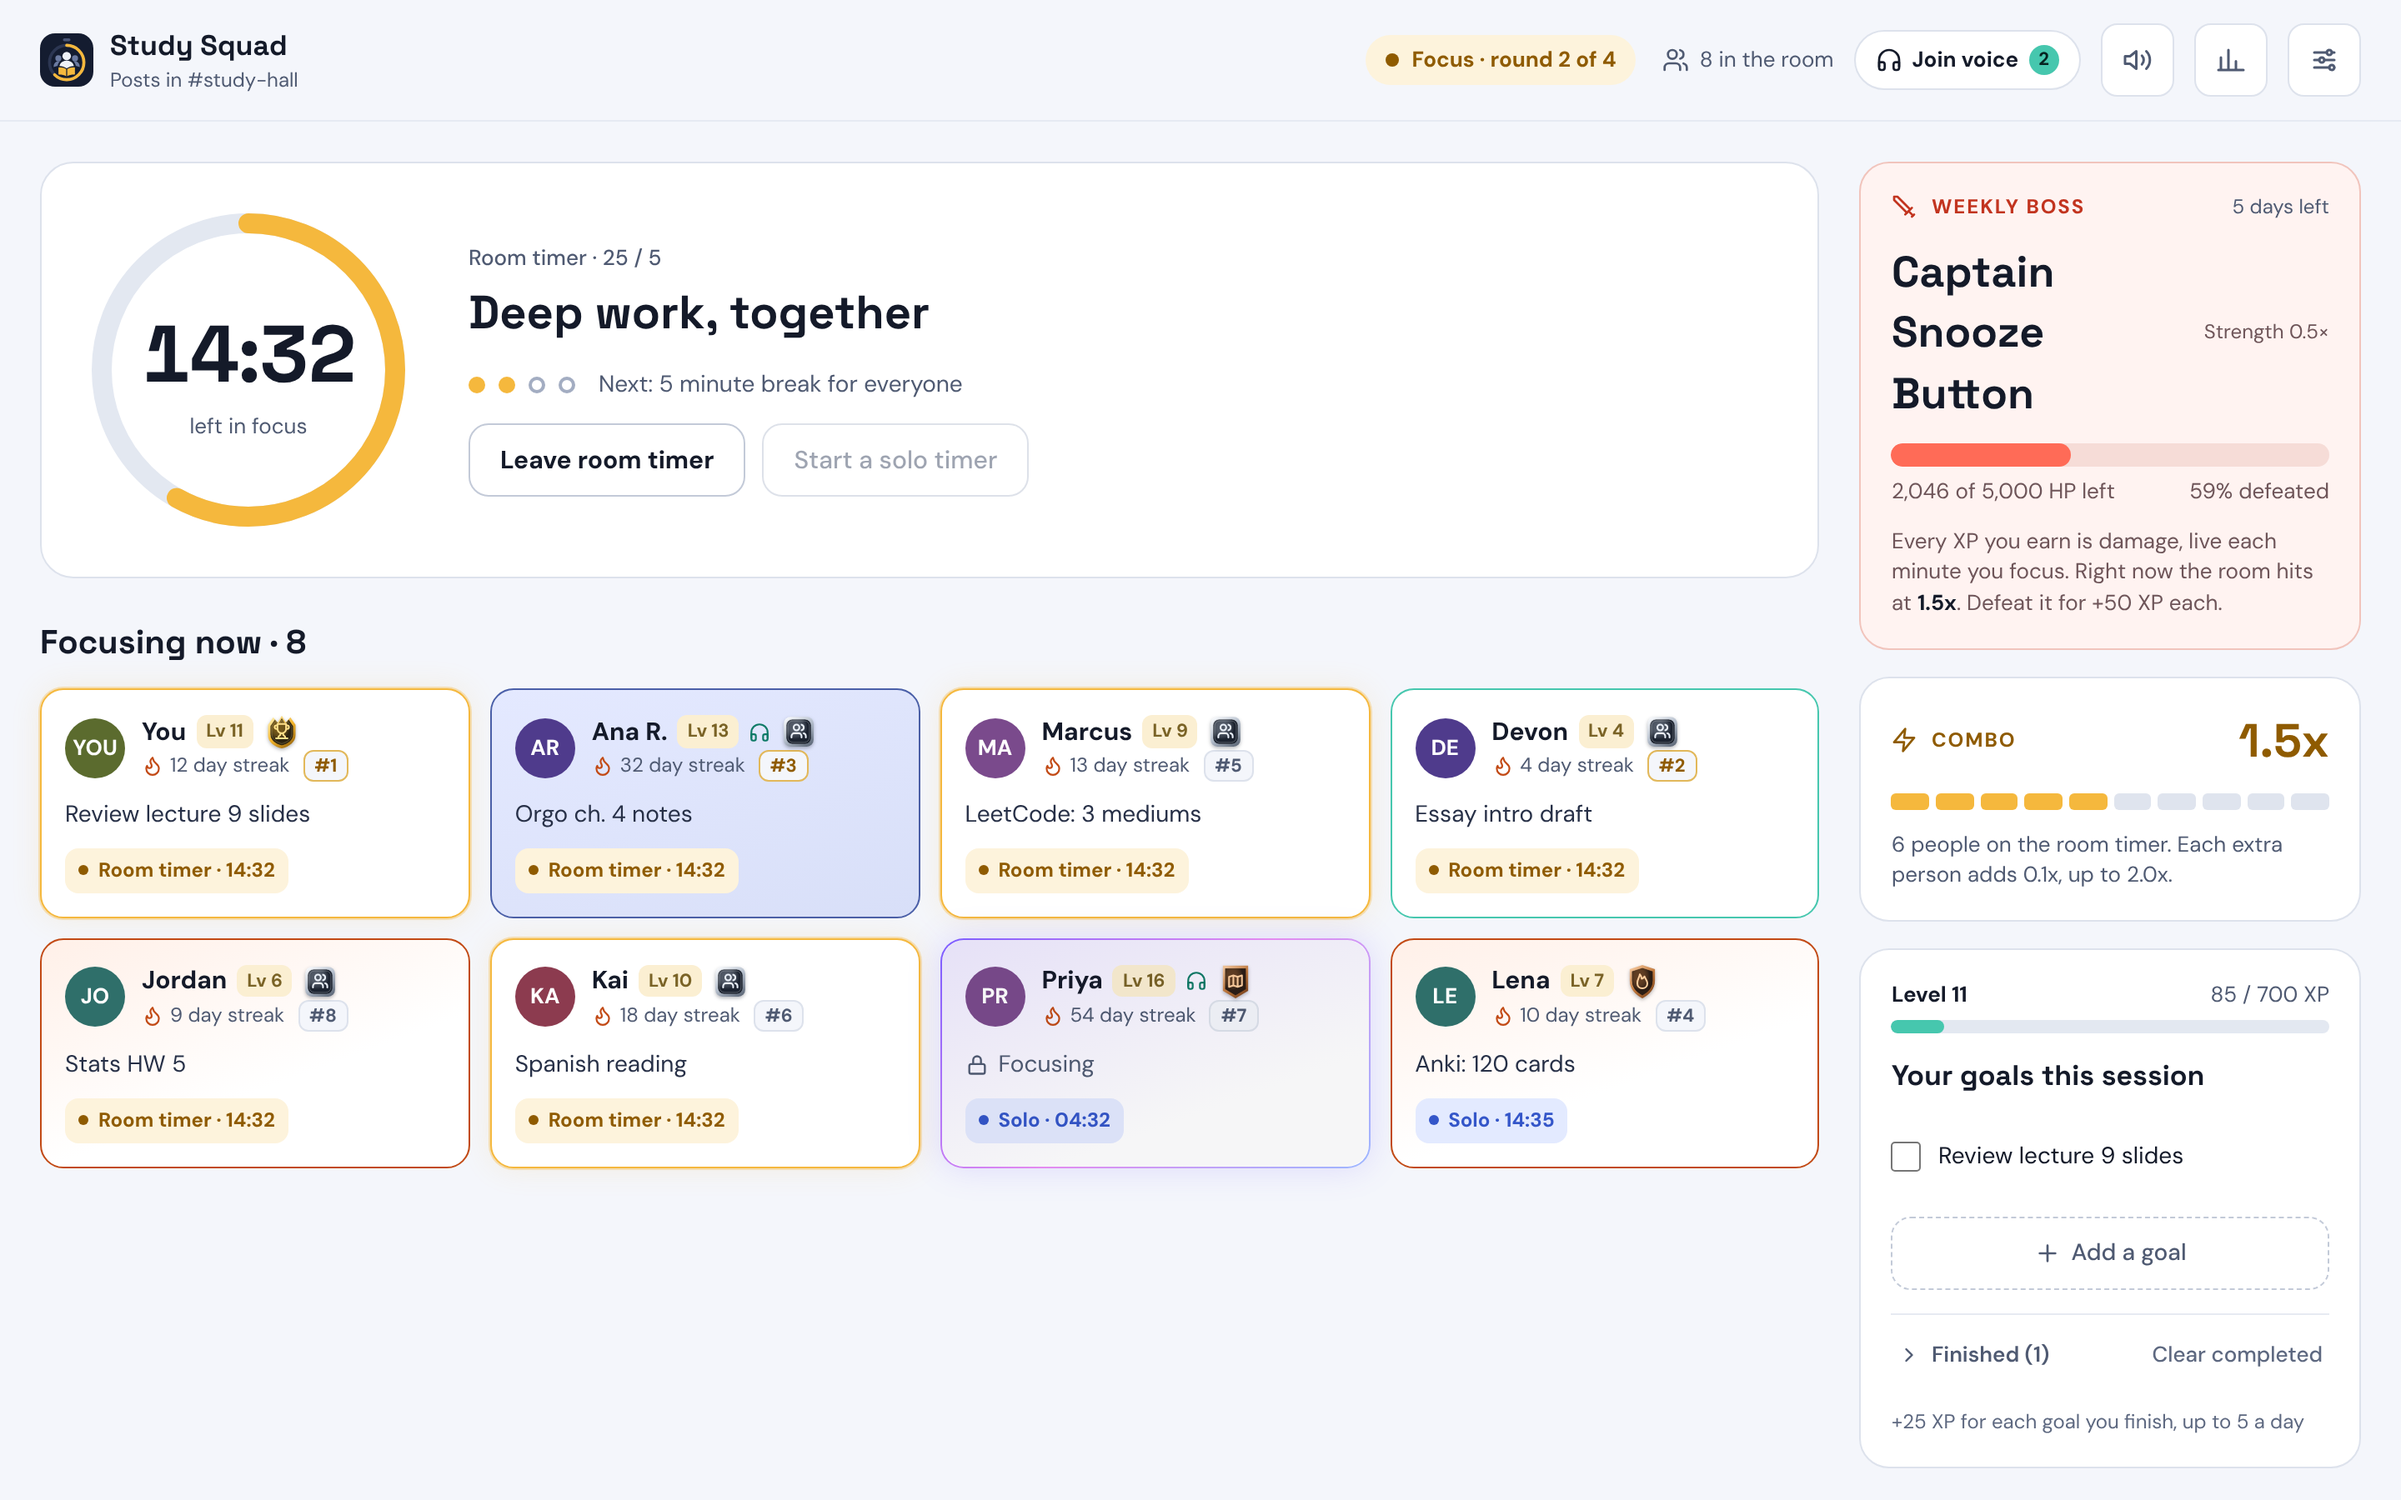
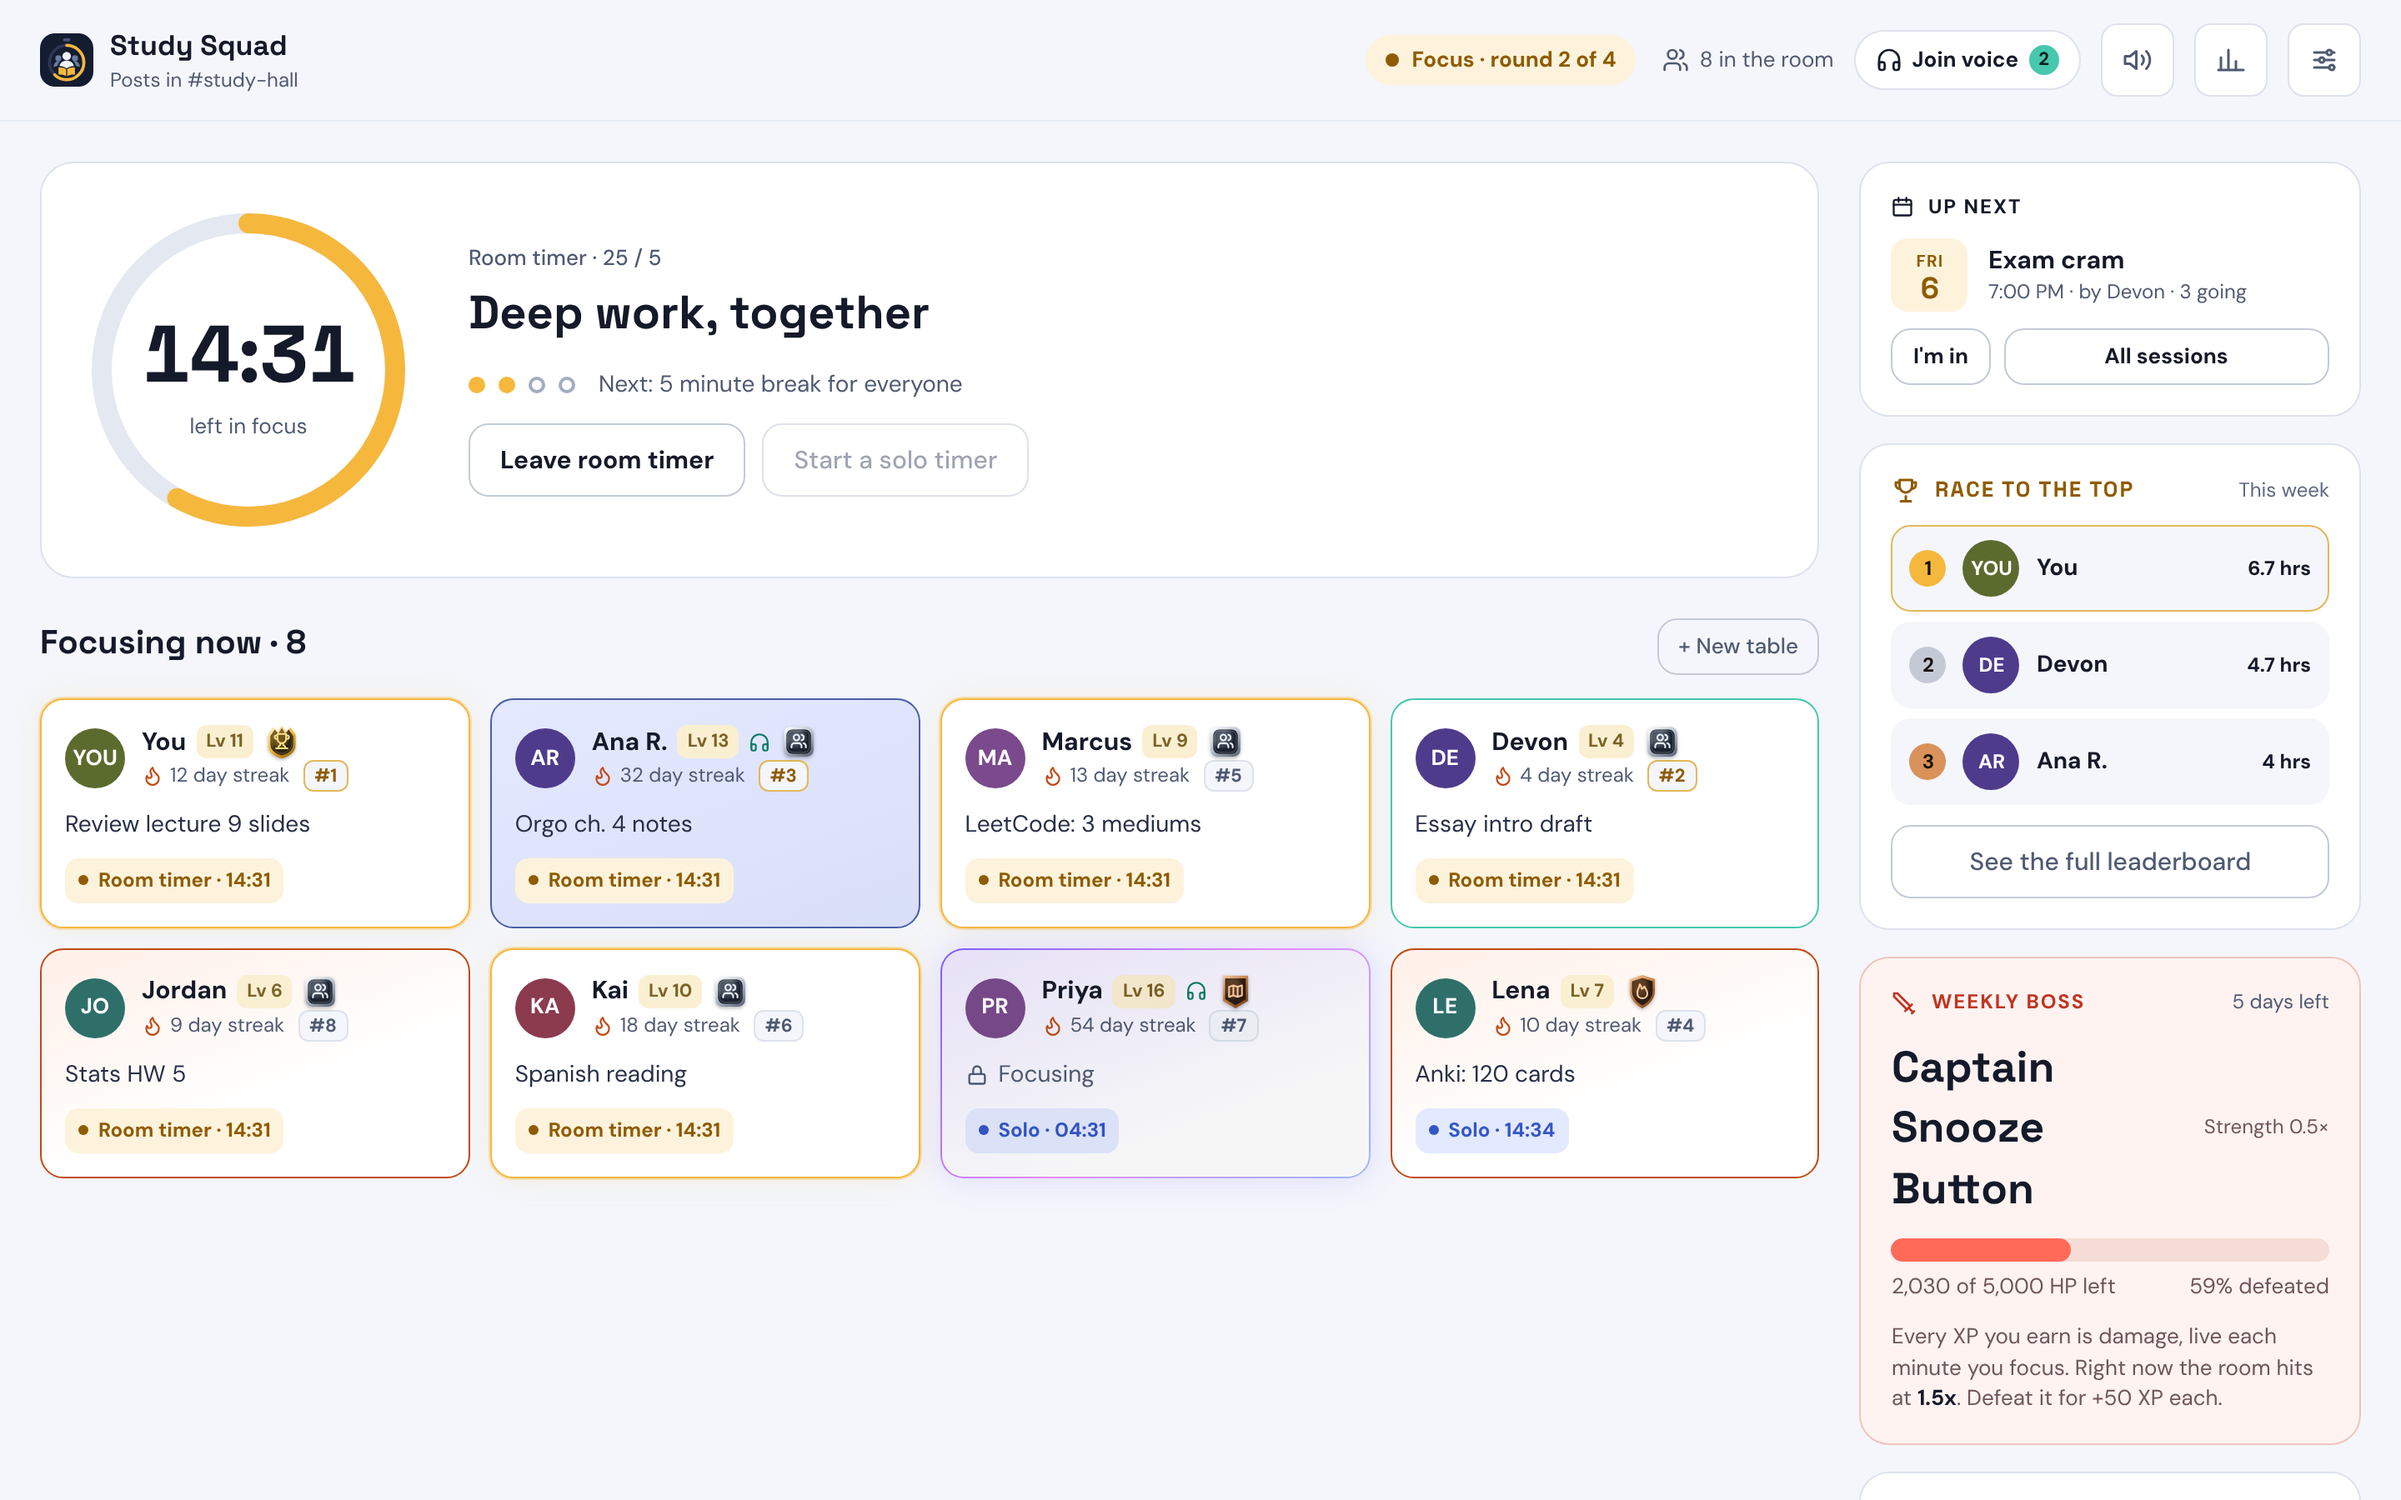
Retake README screenshots on desktop in dark mode, and bring the privacy policy up to date
Screenshots now lead with desktop dark (room, break moment, Sounds, start
session, goals, progress, settings), plus the light room and one phone shot.
Privacy policy: study tables, per-device Sounds settings, bundled music.

Claude-Session: https://claude.ai/code/session_017BA9j8yhX3XNgTE7XKFgaS

diff --git a/PRIVACY.md b/PRIVACY.md
@@ -1,6 +1,6 @@
 # Study Squad privacy policy
 
-_Effective November 6, 2026_
+_Effective November 11, 2026_
 
 Study Squad is a group study timer for [Root](https://www.rootapp.com) communities, made by Samuel Burke ("we", "us"). This page explains, in plain language, what Study Squad keeps, why, who sees it, and how you can delete it whenever you like.
 
@@ -26,6 +26,7 @@ Everything Study Squad keeps is about your studying, and each piece has a job:
 | Badges you've earned and when, your card style and pinned badge | To show your badges and the look of your card                                                       |
 | Feedback notes you send, until they're delivered, and when      | So a note isn't lost if sending fails, and to limit notes per hour                                  |
 | Sessions you schedule, and which ones you tapped "I'm in" for   | To show them to the community and ping you when they start; they're removed once the session starts |
+| Which study table you're sitting at, and the names of tables    | To run each table's timer; an empty table closes on its own                                         |
 
 A few things Study Squad **uses but doesn't save**:
 
@@ -33,7 +34,7 @@ A few things Study Squad **uses but doesn't save**:
 - Whether you have Study Squad open right now, to show who's in the room.
 - Whether you're in the community voice channel an admin picked, to show headphones on your card. Study Squad never hears or records the call itself.
 - Messages in channels Study Squad can see, only to spot the developer's test commands (messages that start with `!`, from the developer's own account). Study Squad never saves, logs or answers anyone else's messages.
-- Whether sounds are muted. This is saved only on your own device, in your browser.
+- Your sound settings: whether sounds are muted, and the music, ambience and volumes you picked in **Sounds**. These are saved only on your own device, in your browser.
 
 Each community's Study Squad data lives in that community's own app storage, hosted by Root. Communities never see each other's data.
 
@@ -54,7 +55,7 @@ Each community's Study Squad data lives in that community's own app storage, hos
 
 - We never sell or share your data.
 - No ads, no analytics and no tracking.
-- No outside services, with one exception you choose: feedback you send. Study Squad's fonts and sounds are built into the app, so it doesn't contact Google or anyone else. A feedback note passes through a small service of ours hosted on Vercel and lands as an issue in a private GitHub repository only we can see, with a copy sent to our private Slack so we notice it. It carries no information about who sent it, and it's sent from the app's server, not your device.
+- No outside services, with one exception you choose: feedback you send. Study Squad's fonts, sounds and music are built into the app, so it doesn't contact Google or anyone else. A feedback note passes through a small service of ours hosted on Vercel and lands as an issue in a private GitHub repository only we can see, with a copy sent to our private Slack so we notice it. It carries no information about who sent it, and it's sent from the app's server, not your device.
 
 ## How long we keep it
 

diff --git a/README.md b/README.md
@@ -6,21 +6,26 @@ Study Squad is a group study timer for [Root](https://www.rootapp.com) communiti
 
 <picture>
   <source media="(prefers-color-scheme: light)" srcset="docs/screenshots/room-desktop-light.png">
-  <img src="docs/screenshots/room-desktop.png" alt="Study Squad focus room on desktop: the room timer, everyone focusing, the weekly boss, the combo and your goals">
+  <img src="docs/screenshots/room-desktop.png" alt="Study Squad focus room on desktop: the room timer, everyone focusing, Up next, the weekly leaderboard and the weekly boss">
 </picture>
 
 <p>
-  <img src="docs/screenshots/room-mobile.png" alt="Focus room on a phone, dark theme" width="200">
-  <img src="docs/screenshots/room-mobile-light.png" alt="Focus room on a phone, light theme" width="200">
-  <img src="docs/screenshots/start-session-mobile.png" alt="Start a session: goals, private toggle, room or solo timer" width="200">
-  <img src="docs/screenshots/break-moment-mobile.png" alt="The break moment: XP earned, streak, boss damage and did you finish your goal" width="200">
+  <img src="docs/screenshots/break-moment-desktop.png" alt="The break moment: XP earned, streak, boss damage and did you finish your goal" width="49%">
+  <img src="docs/screenshots/sounds-desktop.png" alt="The Sounds sheet: a lo-fi music player with moods and a track list, plus ambience under the music" width="49%">
 </p>
 
 <p>
-  <img src="docs/screenshots/goals-mobile.png" alt="Your goals: edit, drag to reorder, finished goals folded with how long they took" width="200">
-  <img src="docs/screenshots/progress-mobile-light.png" alt="Your progress: level, streak calendar, weekly quests and badges" width="200">
-  <img src="docs/screenshots/settings-mobile.png" alt="Room settings: the room's rules, the voice channel dropdown for admins and Send feedback" width="200">
-  <img src="docs/screenshots/break-moment-mobile-light.png" alt="The break moment in the light theme" width="200">
+  <img src="docs/screenshots/start-session-desktop.png" alt="Start a session: goals, private toggle, room or solo timer" width="49%">
+  <img src="docs/screenshots/goals-desktop.png" alt="Your goals: edit, drag to reorder, finished goals folded with how long they took" width="49%">
+</p>
+
+<p>
+  <img src="docs/screenshots/progress-desktop.png" alt="Your progress: the weekly leaderboard, level, streak calendar, quests and badges" width="49%">
+  <img src="docs/screenshots/settings-desktop.png" alt="Room settings: the room's rules, the voice channel dropdown for admins and Send feedback" width="49%">
+</p>
+
+<p>
+  <img src="docs/screenshots/room-mobile.png" alt="Focus room on a phone, dark theme" width="200">
 </p>
 
 ## Features (v0.5.1)
